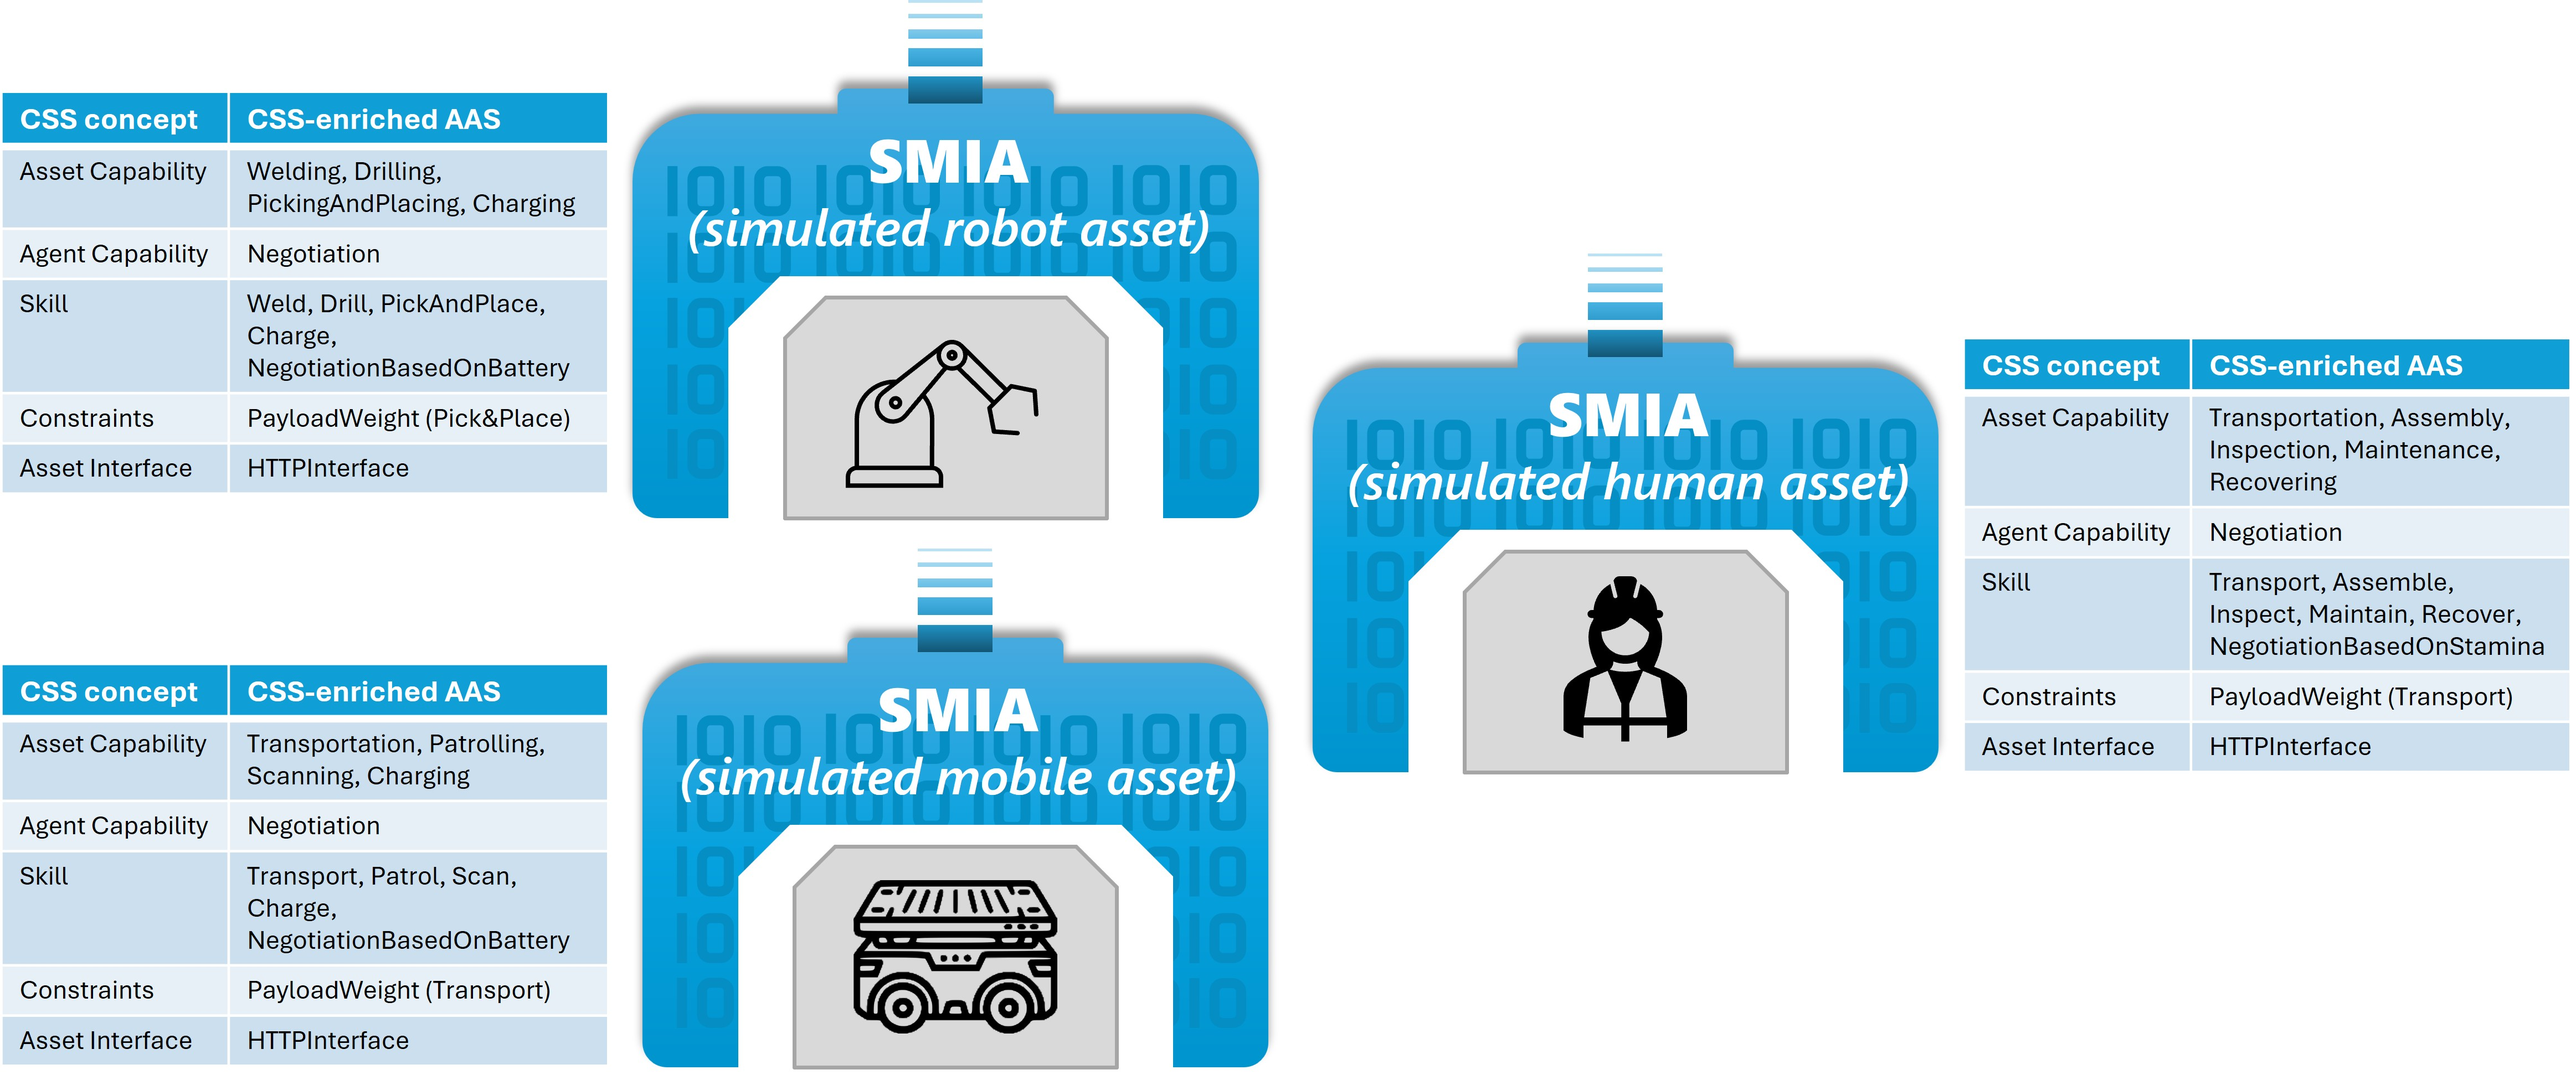
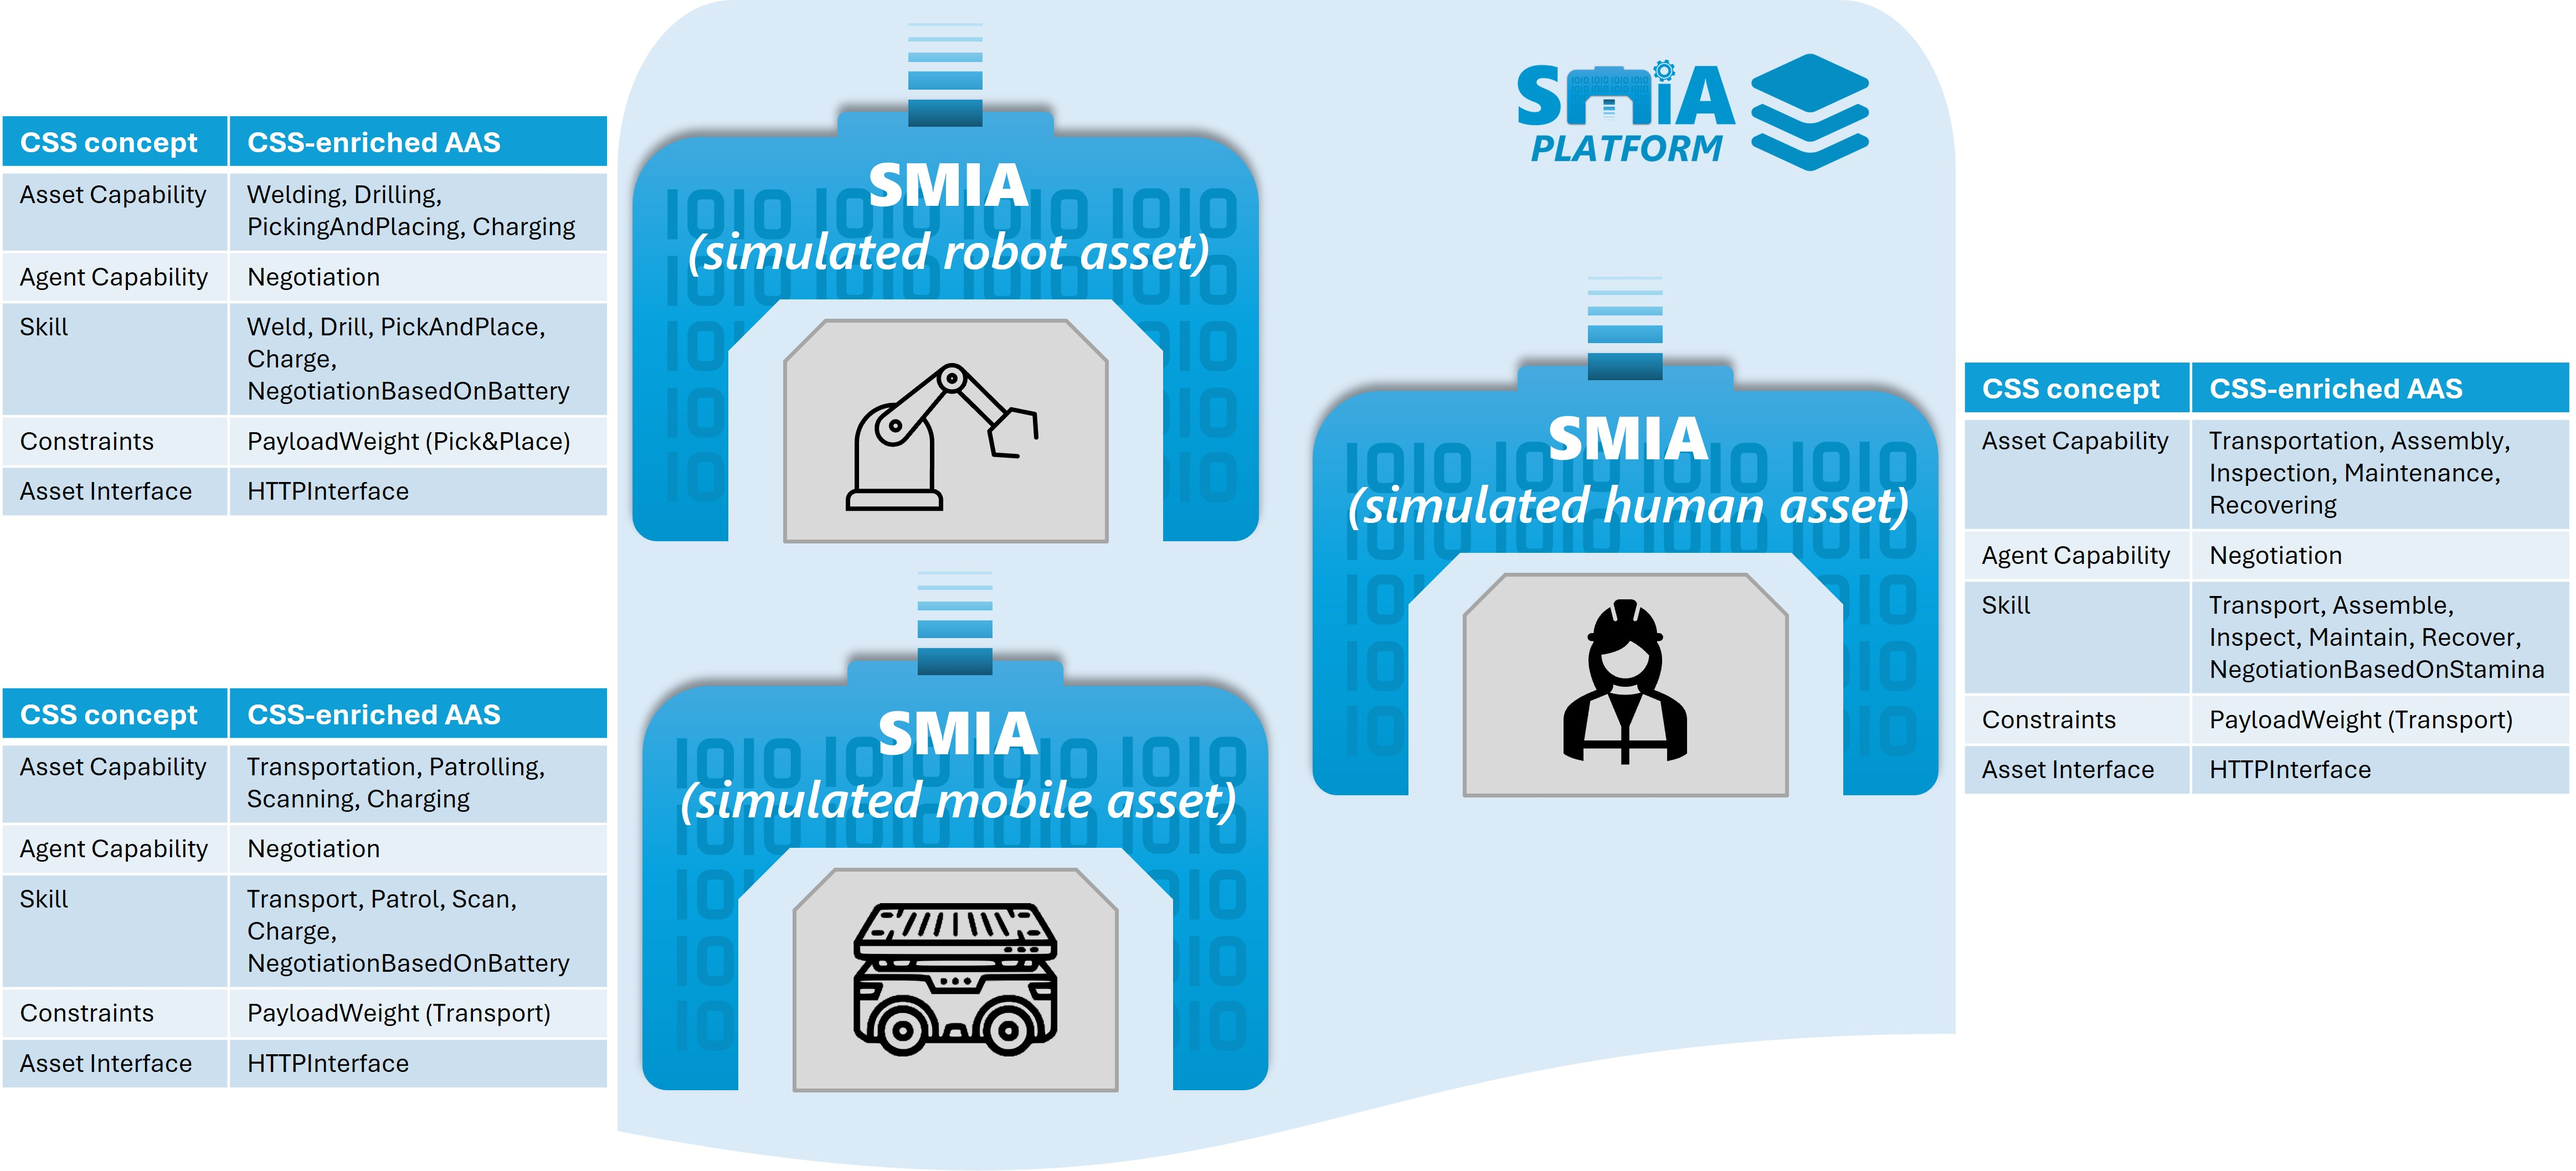
docs: progress with the step-by-step tutorial for the assets simulator: part of the first phase has been completed (development of the CSS-enriched AAS model for simulated assets)

diff --git a/docs/smia_user_guide/guided_tutorials/guided_tutorial_simulated_assets.rst b/docs/smia_user_guide/guided_tutorials/guided_tutorial_simulated_assets.rst
@@ -4,7 +4,7 @@ Step-by-step tutorial: Simulated assets
 =======================================
 
 
-This document contains a step-by-step guide to building a SMIA agent and deploying it alongside the entire platform. An asset simulator is provided as part of the ecosystem infrastructure, enabling the evaluation of both the agent’s and the platform’s performance. It offers detailed steps to follow, as well as source code for specific parts, to successfully reproduce the development tutorial.
+This document contains a step-by-step guide to building a SMIA agent and deploying it alongside the entire platform. An Assets Simulator is provided as part of the ecosystem infrastructure, enabling the evaluation of both the agent’s and the platform’s performance. It offers detailed steps to follow, as well as source code for specific parts, to successfully reproduce the development tutorial.
 
 .. note::
 
@@ -41,10 +41,11 @@ The objective is to evaluate the CSS-enriched AAS models using simulated assets 
 
 In this tutorial, we will use the HTTP-based simulator, which provides three types of assets, each with different capabilities:
 
-The following figure shows the CSS-enriched AAS elements for the three types of assets provided by the HTTP asset simulator:
+The following figure shows the CSS-enriched AAS elements for the three types of assets provided by the HTTP Assets Simulator:
 
 .. figure:: ../../_static/images/guides_images/SMIA_guided_tutorial_simAss_asset_info.jpg
    :alt: SMIA simulated assets guided tutorial assets info
+   :name: SMIA simulated assets guided tutorial assets info
 
    **Figure**: SMIA simulated assets guided tutorial assets info
 
@@ -69,22 +70,78 @@ Before starting the code development part of the tutorial, it is necessary to ve
 4. **Infrastructure:** The entire SMIA platform infrastructure will be deployed using Docker, so there is no need to install anything else. However, a web browser is required to access the graphical interfaces of the infrastructure components.
 
 
-First Phase: Generate the CSS-enriched AAS model
+First Phase: generate the CSS-enriched AAS model
 ------------------------------------------------
 
 
 In the first phase, we will generate the CSS-enriched AAS model that will allow the SMIA agent to self-configure and obtain all information related to the simulated asset it will represent. This same process can be applied to the three types of simulated assets. The steps to follow to generate the model from scratch are as follows:
+
+
+1. Open the **``AASX Package Explorer``** tool and configure it for edit mode (``Workspace > Edit``).
+
+2. Create a new AAS within the environment and define its *idShort*. Also, add an identifier for the asset in *globalAssetId*, which will be used later to identify it as a simulated asset. It can be generated automatically, but it is recommended to add an identifier that represents the asset type (e.g., “assetID/humanWorker001”).
+
+3. Add the ontological identifiers of the CSS model in the form of ``ConceptDescriptions``.
+
+    3.1. Add the submodel with the ontological identifiers of the CSS model: ``Workspace > Create ... > New submodel from plugin > AasxPluginGenericForms | GCIS/SubmodelWithCapabilitySkillOntology``.
+
+    3.2. From the submodel, generate the ConceptDescriptions with ontological identifiers of the CSS model: button ``Create <- SMEs (all)``. Within *ConceptDescriptions*, all elements will have been generated. The submodel can now be deleted (button ``Delete``), as well as its ConceptDescription (*SubmodelWithCapabilitySkillOntology*) so that it does not produce errors later (since it generates it with an empty id).
+
+    .. note::
+       As of v2025-03-25, ConceptDescriptions are generated via the ``SMEs (all)`` functionality, but this is not capable of generating all information from the plugin for the CSS model. If you do not wish to fill in all the remaining information (e.g., *shortName* of each concept), it is possible to obtain it from the base resource for the development of the CSS-enriched AAS model. To do this, you can open a new window of the ``AASX Package Explorer`` tool, open the file ``CSS_AAS_model_base.aasx`` offered in this tutorial's folder, select and copy all ConceptDescriptions using the ``Copy`` button, and ``Paste into`` in our AAS.
+
+4. Add the submodel for defining the SMIA software: ``Workspace > Create ... > New submodel from plugin > AasxPluginGenericForms | Nameplate for Software in Manufacturing (IDTA) V1.0``.
+
+    4.1. Delete the SubmodelElement ``SoftwareNameplateType`` and modify the ``SoftwareNameplateInstance``: remove all occurrences of *{0:00}*.
+
+    4.2. Specify the agent identifier in ``SoftwareNameplateInstance/InstanceName[value]`` (the same one that will later be defined in the JID in the code, although in this case without the XMPP server, i.e., only the identifier before "@"), and the agent version in ``SoftwareNameplateInstance/InstalledVersion[value]`` (e.g., "1.0.0"). In addition to these mandatory data, the others are optional. You can add any data you wish to define the SMIA software in more depth (installed modules, OS on which it is deployed, etc.).
+
+    .. note::
+       If you do not want to modify the submodel, you can obtain a valid submodel with the following process: open a new window of the ``AASX Package Explorer`` tool, open the file ``CSS_AAS_model_base.aasx`` offered in this tutorial's folder, copy the "SoftwareNameplate" submodel using the ``Copy`` button, and in our AAS, ``Paste into``.
+
+
+5. Add the submodel for defining the interface of the simulated asset that the SMIA agent will represent: ``Workspace > Create ... > New submodel from plugin > AasxPluginGenericForms | AssetInterfacesDescription (IDTA) V1.0``. Completely define the *SubmodelElementCollection* corresponding to the protocols supported by the asset.
+
+    5.1. In this tutorial, we'll be using the HTTP-based Assets Simulator, so you can edit the HTTP *SubmodelElementCollection* ("InterfaceTemplateForHTTP") and rename it, for example, to ``SimulatedAssetHTTPInterface``.
+
+    5.2. To test and validate the interface, the *EndpointMetadata/base* element will be modified with the the endpoint of the asset on the server representing the Assets Simulator. To this end, the URI will be constructed as *http://<serverIP>:<serverPort>/api/v1/<assetID>*. Since we will later deploy all components using Docker, the container name can be used; therefore, a valid endpoint using the asset ID from the previous example would be: ``http://smia-assets-simulator-http:5000/api/v1/asset/assetID/humanWorker001``.
+
+    5.3. To test and validate asset properties, they will be added to *InteractionMetadata/properties/*. For each asset property, its *SubmodelElementCollection* must be added and specified.
+
+    First, define its *idShort*, which is the asset’s property. The Assets Simulator provides general information about each asset via ``status``. Depending on the asset type, this includes ``battery`` (production and mobile robots) or ``stamina`` (humans). Next, define the value of its data point in *forms/href/* (for example, ``/status``).
+
+    If you want to extract a specific piece of data from all the information returned by the asset, you can specify it in *dataQuery*. In this tutorial, the Assets Simulator returns a JSON object containing all the asset’s information from the ``/status`` data point. If you want to extract a specific piece of data, add the field where the data is located (``$.stamina`` or ``$.battery``) to *dataQuery*. This way, you can choose to retrieve all the information for further processing ("status"), or you can configure SMIA to automatically extract specific data (“stamina” or “battery”).
+
+    5.4. To test and validate asset services, they will be added to *InteractionMetadata/actions/*. For each asset property, its *SubmodelElementCollection* must be added and specified.
+
+    First, its *idShort* will be defined, which corresponds to the asset’s service. The Assets Simulator provides actions for each asset type and recovery/charging service (``recover/charge``). All of these are shown in the figure above (:ref:`SMIA simulated assets guided tutorial assets info`). It is also necessary to define the value of its data point in *forms/href/* using the format */action/<actionID>* (for example, ``/action/transport`` for the transport action for humans and mobile assets). In this case, it is a POST request, so it is necessary to ensure that the “Content-Type” is defined in *forms/htv_headers/*.
+
+.. TODO pensar si añadir un dropdown con una tabla y todas las acciones y datapoints de cada tipo de activo
+
+    .. note::
+       The submodel must be completely defined so that it does not produce errors during the SMIA startup. If you wish to modify a valid submodel, you can open a new window of the ``AASX Package Explorer`` tool, open the file ``CSS_AAS_model_base.aasx`` offered in this tutorial's folder, copy the "AssetInterfacesDescription" submodel using the ``Copy`` button, and in our AAS, ``Paste into``.
+
+
+
+.. TODO repasarlo y seguir con esta parte
+
+
+Second Phase: validate the SMIA agents manually
+-----------------------------------------------
+
 .. TODO
 
 
-Second Phase: Develop the logic to extend SMIA
-----------------------------------------------
+
+Third Phase: validate the SMIA agents via SMIA PE
+-------------------------------------------------
 
 .. TODO
 
 
 
-Third Phase: Validate the extended SMIA using SMIA Operator
------------------------------------------------------------
+.. note::
 
-.. TODO
+    This tutorial is currently in development and will be available soon!
+
+.. TODO ELIMINARLO CUANDO SE ACABE
